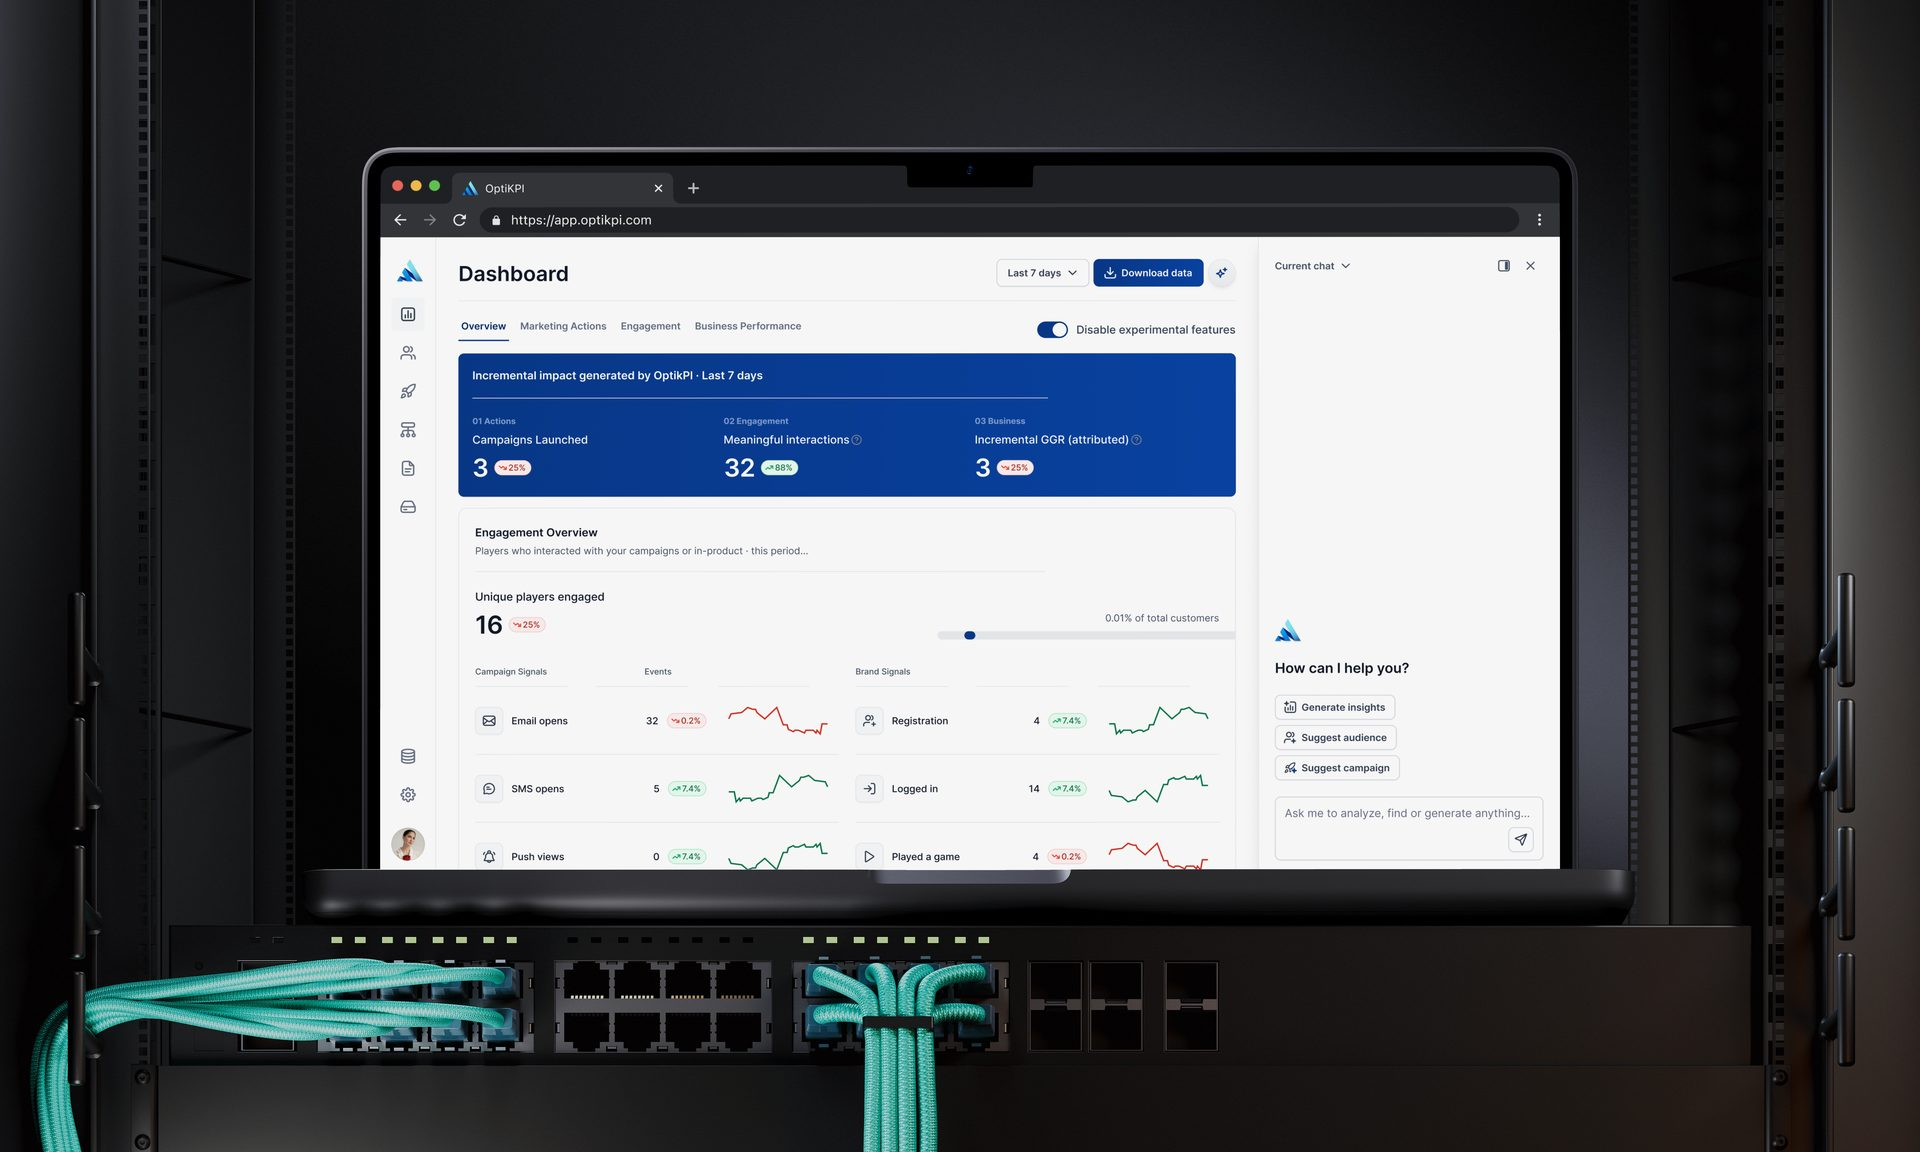
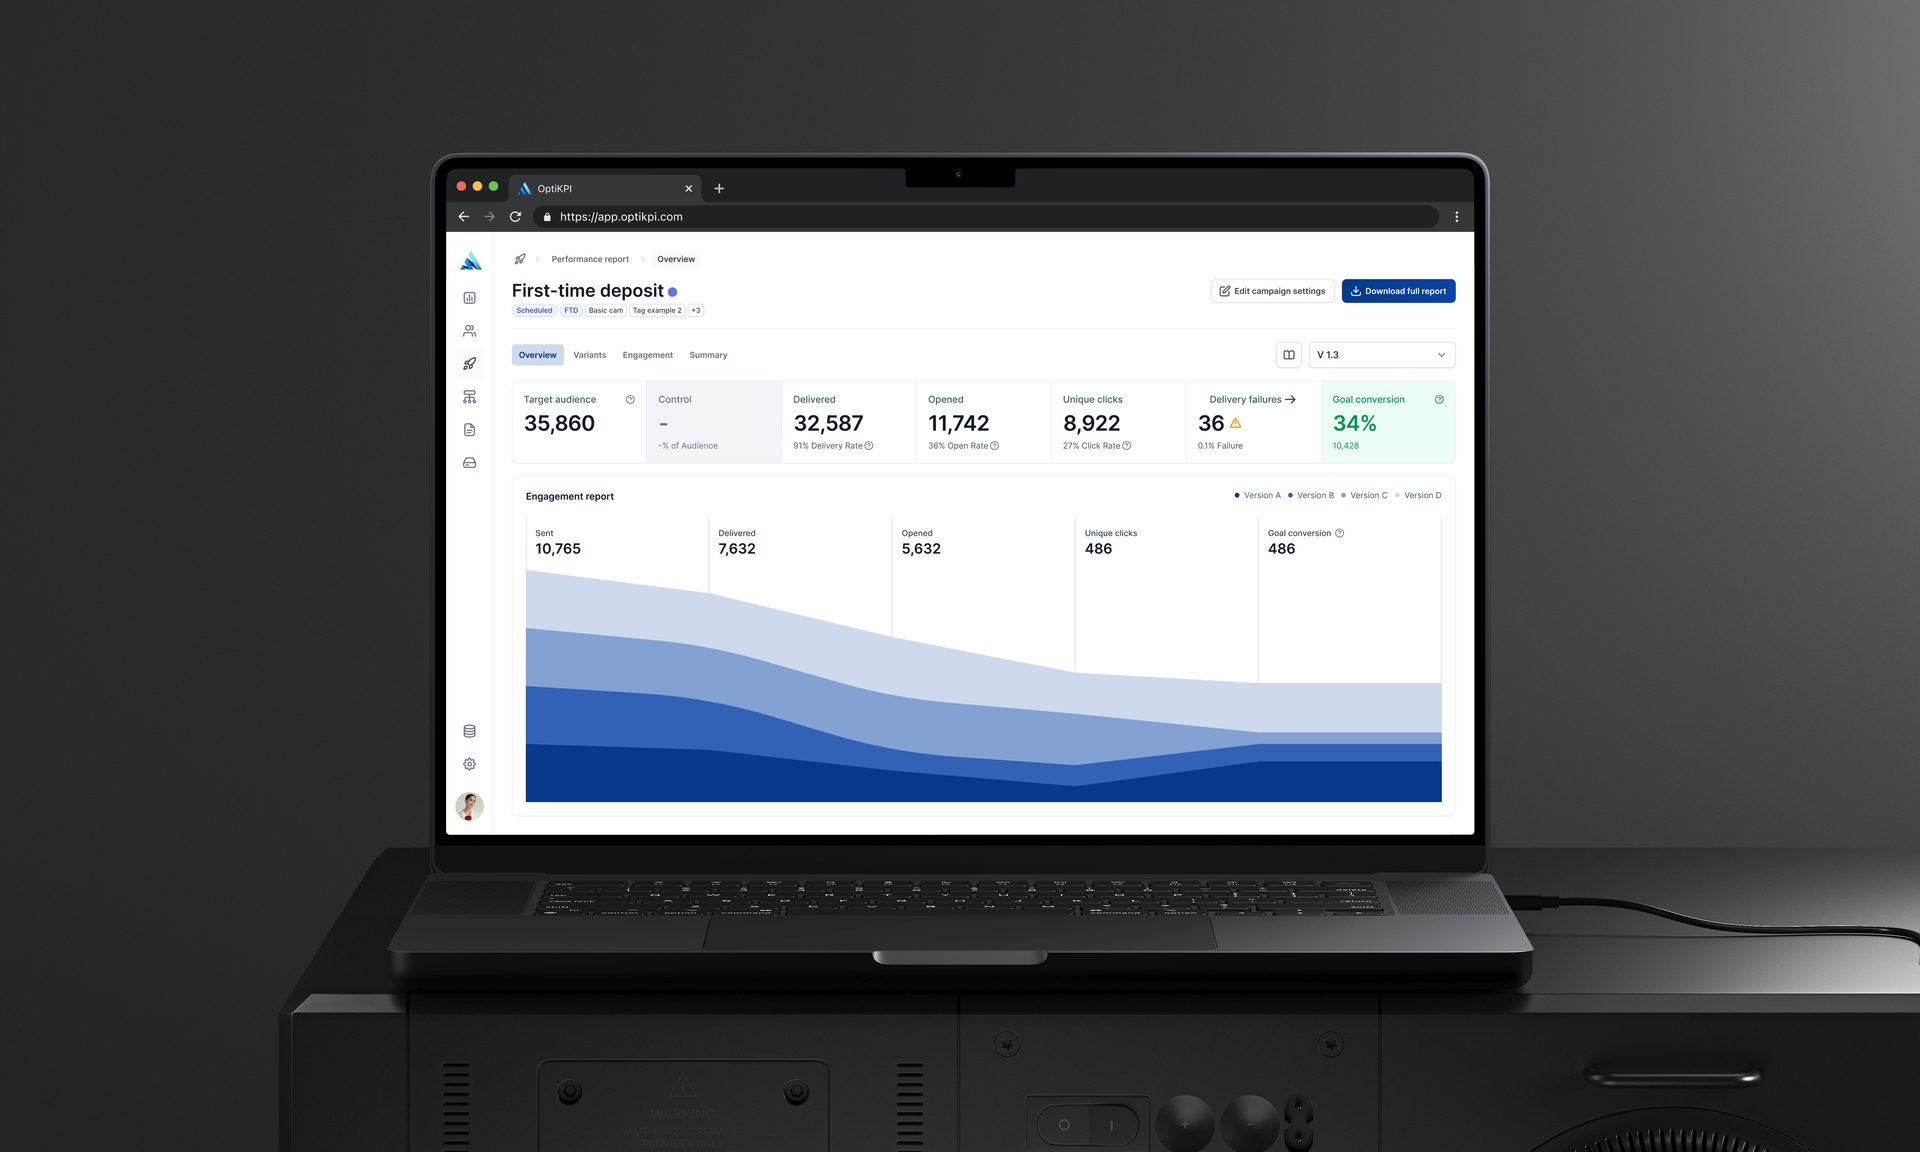
OptiKPI: la copertina nuova, il report di campagna
Ritagliata 5:3 a 1920x1152, 107 KB dai 23 MB del sorgente. Testo
alternativo riscritto su quello che si vede adesso, cioe' il rendiconto di
una campagna e non piu' la dashboard.

Rifatta anche l'anteprima social, che e' costruita dalla copertina, e
rimisurato il contrasto del titolo sulla scheda in home: 4,7:1 nel punto
peggiore, sopra la soglia anche per il testo normale, quindi il velo resta
al 55%.

diff --git a/index.html b/index.html
@@ -185,7 +185,7 @@
 					</div>
 				</article>
 				<article class="case-card">
-					<img class="case-card-image" src="/assets/img/cover-optikpi.jpg" alt="The OptiKPI 2.0 dashboard open in a browser on a laptop standing in a server rack." width="1920" height="1152" loading="lazy" decoding="async" />
+					<img class="case-card-image" src="/assets/img/cover-optikpi.jpg" alt="A campaign report in OptiKPI 2.0 on a laptop: audience, delivery, opens and conversion of a first time deposit campaign." width="1920" height="1152" loading="lazy" decoding="async" />
 					<p class="case-mark">OptiKPI</p>
 					<div class="case-card-stack">
 						<h3 class="case-card-title"><a class="case-card-link" href="/optikpi/">Flattening the learning curve with agentic AI</a></h3>

diff --git a/optikpi/index.html b/optikpi/index.html
@@ -71,7 +71,7 @@
 		<!-- 1. hero -->
 		<figure class="case-figure">
 			<div class="container">
-				<img src="/assets/img/cover-optikpi.jpg" alt="The OptiKPI 2.0 dashboard open in a browser on a laptop standing in a server rack." width="1920" height="1152" />
+				<img src="/assets/img/cover-optikpi.jpg" alt="A campaign report in OptiKPI 2.0 on a laptop: audience, delivery, opens and conversion of a first time deposit campaign." width="1920" height="1152" />
 			</div>
 		</figure>
 
